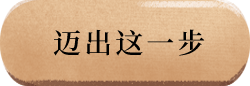
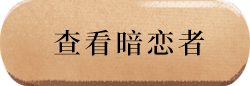
更新4

Changed region(s): [[0.196, 0.3256, 0.812, 0.6512]]

diff --git a/src/views/sendOut/sendOut.scss b/src/views/sendOut/sendOut.scss
@@ -1,5 +1,7 @@
 @import "base";
-
+@function trem($px) {
+  @return ($px / 75) * 1rem;
+}
 .sendOut-wp {
   position: relative;
   width: 100%;
@@ -66,13 +68,13 @@
       cursor: pointer;
 
       &.write-again {
-        background: url("../../assets/images/write-again.png") no-repeat;
+        background: url("../../assets/images/btn_my_letter.png") no-repeat;
         background-size: contain;
         background-position: center center;
       }
 
       &.return-home {
-        background: url("../../assets/images/return_home.png") no-repeat;
+        background: url("../../assets/images/btn_get_letter.png") no-repeat;
         background-size: contain;
         background-position: center center;
       }
@@ -86,6 +88,22 @@
     .logo-img {
       width: (144 / 75) * 1rem;
       height: (60 / 75) * 1rem;
+      vertical-align: middle;
+      outline: none;
+      overflow: hidden;
+    }
+  }
+  .share-cont {
+    z-index: 999;
+    position: absolute;
+    left: 0;
+    top: 0;
+    width: 100%;
+    height: 100%;
+    background-color: rgba(0, 0, 0, 0.8);
+
+    .share-img {
+      width: 100%;
       vertical-align: middle;
       outline: none;
       overflow: hidden;

diff --git a/src/views/sendOut/sendOut.vue b/src/views/sendOut/sendOut.vue
@@ -8,10 +8,10 @@
         <div class="sendOut-cont">
           <div class="btns-wp">
             <div>
-              <a href="javascript:;" class="btn-link write-again" @click="onReturnWrite"></a>
+              <a href="javascript:;" class="btn-link write-again" @click="onReturnHome"></a>
             </div>
             <div>
-              <a href="javascript:;" class="btn-link return-home" @click="onReturnHome"></a>
+              <a href="javascript:;" class="btn-link return-home" @click="onShowShare"></a>
             </div>
           </div>
           <div class="logo-wp">
@@ -20,9 +20,8 @@
         </div>
       </div>
     </div>
-
-    <div class="brand-egg" v-if="showBrandEgg" @click="showBrandEgg = false;">
-      <div class="brand-egg-cont"></div>
+    <div class="share-cont" v-if="showNoLetter" @click="showNoLetter = false;">
+      <img src="../../assets/images/shouye_share.png" class="share-img" alt="分享">
     </div>
   </div>
 </template>

diff --git a/src/views/myLoveLetter/myLoveLetter.vue b/src/views/myLoveLetter/myLoveLetter.vue
@@ -38,7 +38,7 @@
     <div class="keys-wp" v-if="showKeys">
       <div class="keys-main">
         <div class="qrcode-wp">
-          <img src="../../assets/images/qr-code.png" alt="" class="qrcode">
+          <img src="../../assets/images/qr-code.png" @touchstart="touchQr" class="qrcode">
           <div class="btn-fuzhi" :data-clipboard-text="keyText" @click="fuzhi"></div>
         </div>
         <div class="keys-close" @click="showKeys = false;"></div>

diff --git a/src/views/sendOut/sendOut.ts b/src/views/sendOut/sendOut.ts
@@ -11,6 +11,7 @@ import util from 'util/index'
 })
 export default class SendOut extends Vue {
   showBrandEgg = false;
+  showNoLetter = false;
 
   openid = '';
   created() {
@@ -28,7 +29,9 @@ export default class SendOut extends Vue {
   onReturnHome() {
     this.$router.push({path: '/home'})
   }
-
+  onShowShare() {
+    this.showNoLetter = true
+  }
   //[wxRegCallback 用于微信JS-SDK回调]
   wxRegCallback () {
     this.wxShareTimeline();

diff --git a/src/views/myLoveLetter/myLoveLetter.ts b/src/views/myLoveLetter/myLoveLetter.ts
@@ -107,8 +107,13 @@ export default class MyLoveLetter extends Vue {
       setTimeout(() => {
         this.showShareTips = false;
       }, 3000);
+      _hmt.push(['_trackEvent', 'secret', 'secret']);
     });
      clipboard.on('error', function(e) {});
+  }
+
+  touchQr() {
+    _hmt.push(['_trackEvent', 'qrcode', 'qrcode']);
   }
 
   //[wxRegCallback 用于微信JS-SDK回调]

diff --git a/src/util/api/index.ts b/src/util/api/index.ts
@@ -22,6 +22,7 @@ export default {
   },
 
   shares() {
+    _hmt.push(['_trackEvent', 'share', 'share']);
     return http.post('/cgs/shares', {})
   },
 
@@ -45,6 +46,7 @@ export default {
   },
 
   postContent (params) {
+    _hmt.push(['_trackEvent', 'send', 'send']);
     return http.post('/cgs/mails', {
       content: params.content,
       to_openid: params.to_openid,

diff --git a/src/views/home/home.ts b/src/views/home/home.ts
@@ -85,6 +85,7 @@ export default class Home extends Vue {
 
   // 点击我的情书按钮
   onMails() {
+    _hmt.push(['_trackEvent', 'myLetter', 'myLetter']);
     if(this.myLetterNum === 0) {
       // this.showNoLetter = true;
       this.showTextTips = true
